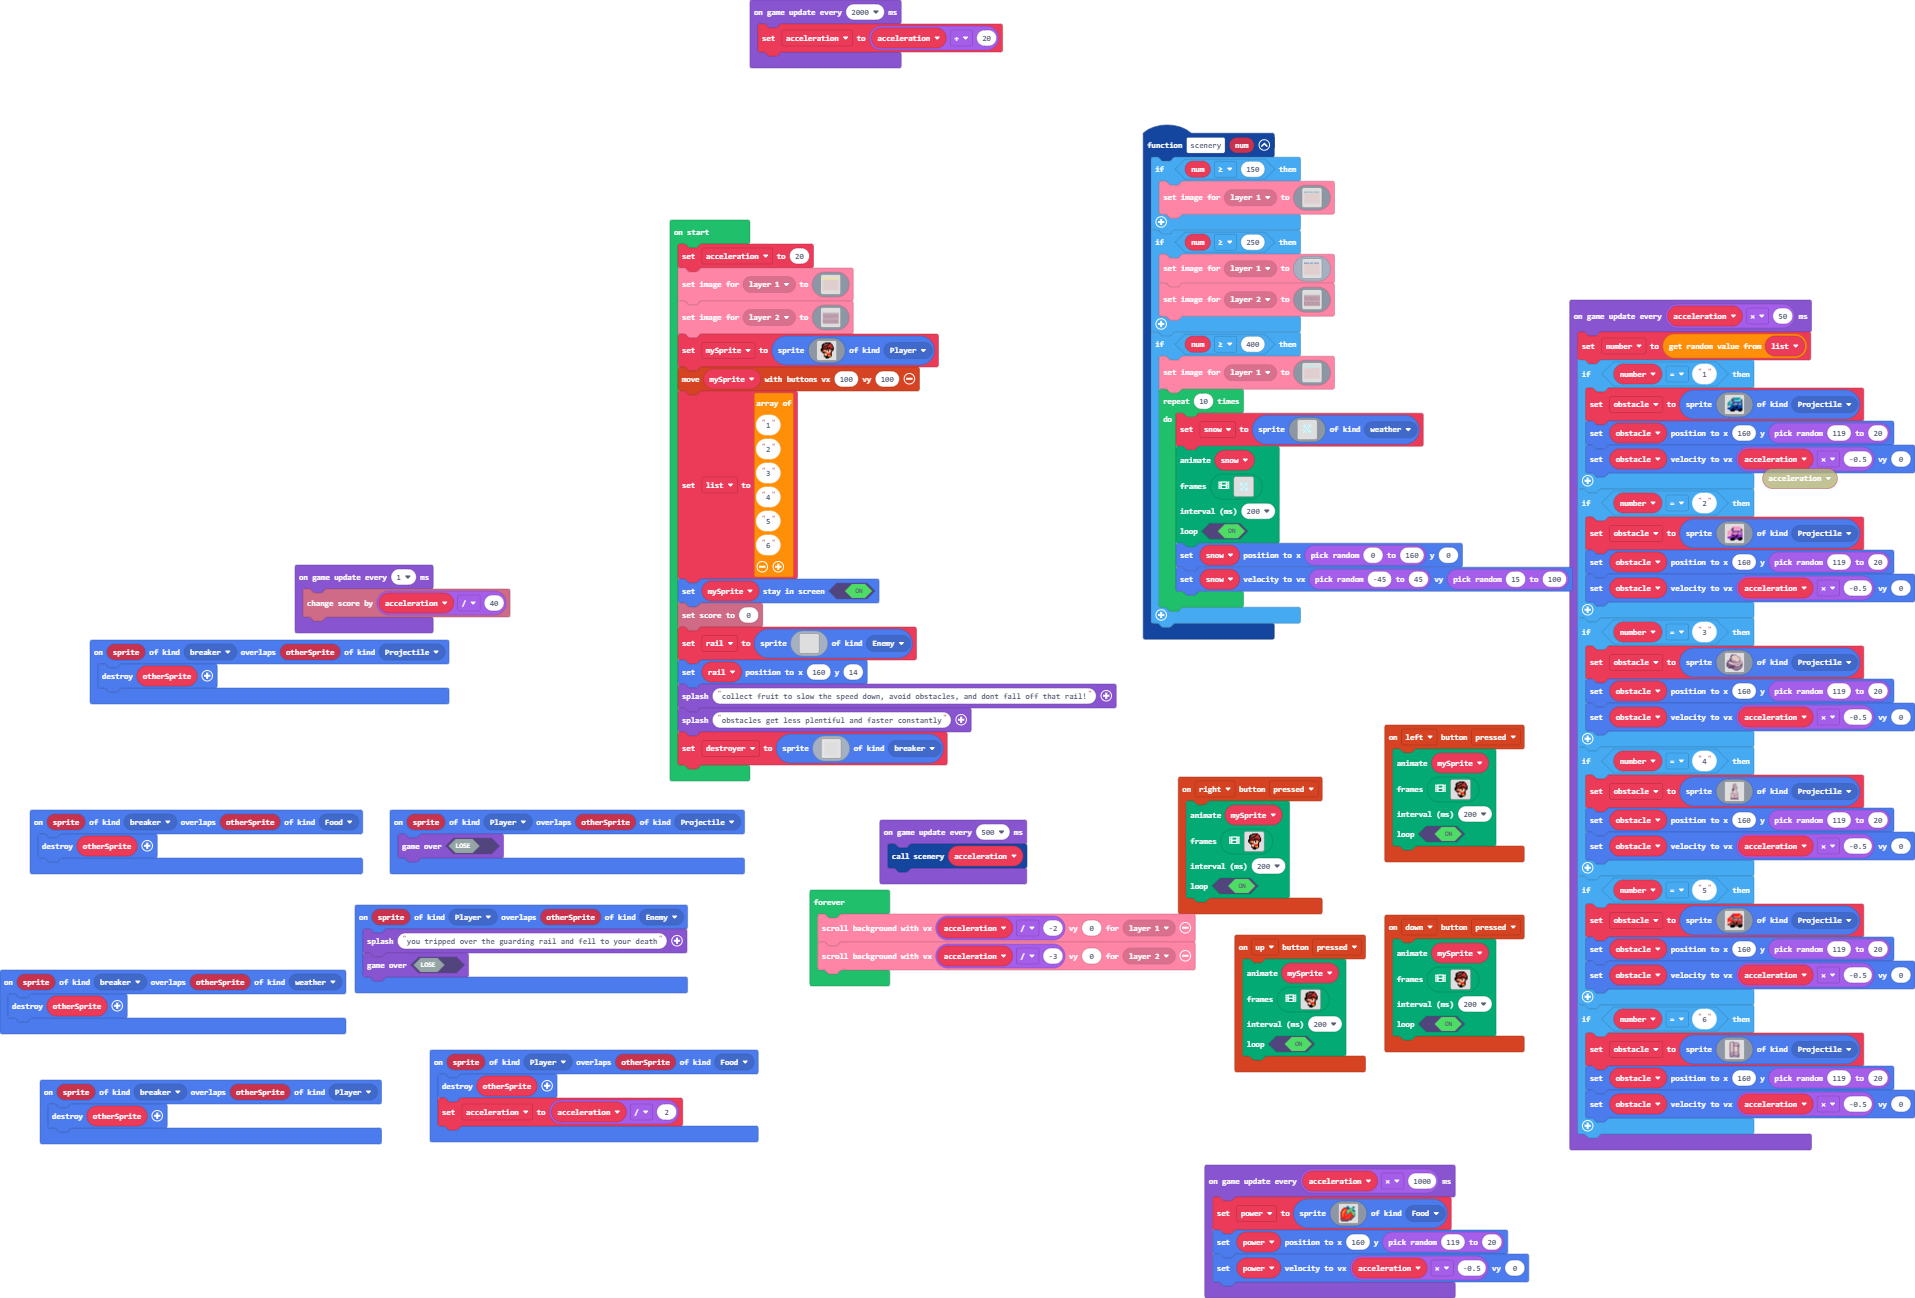
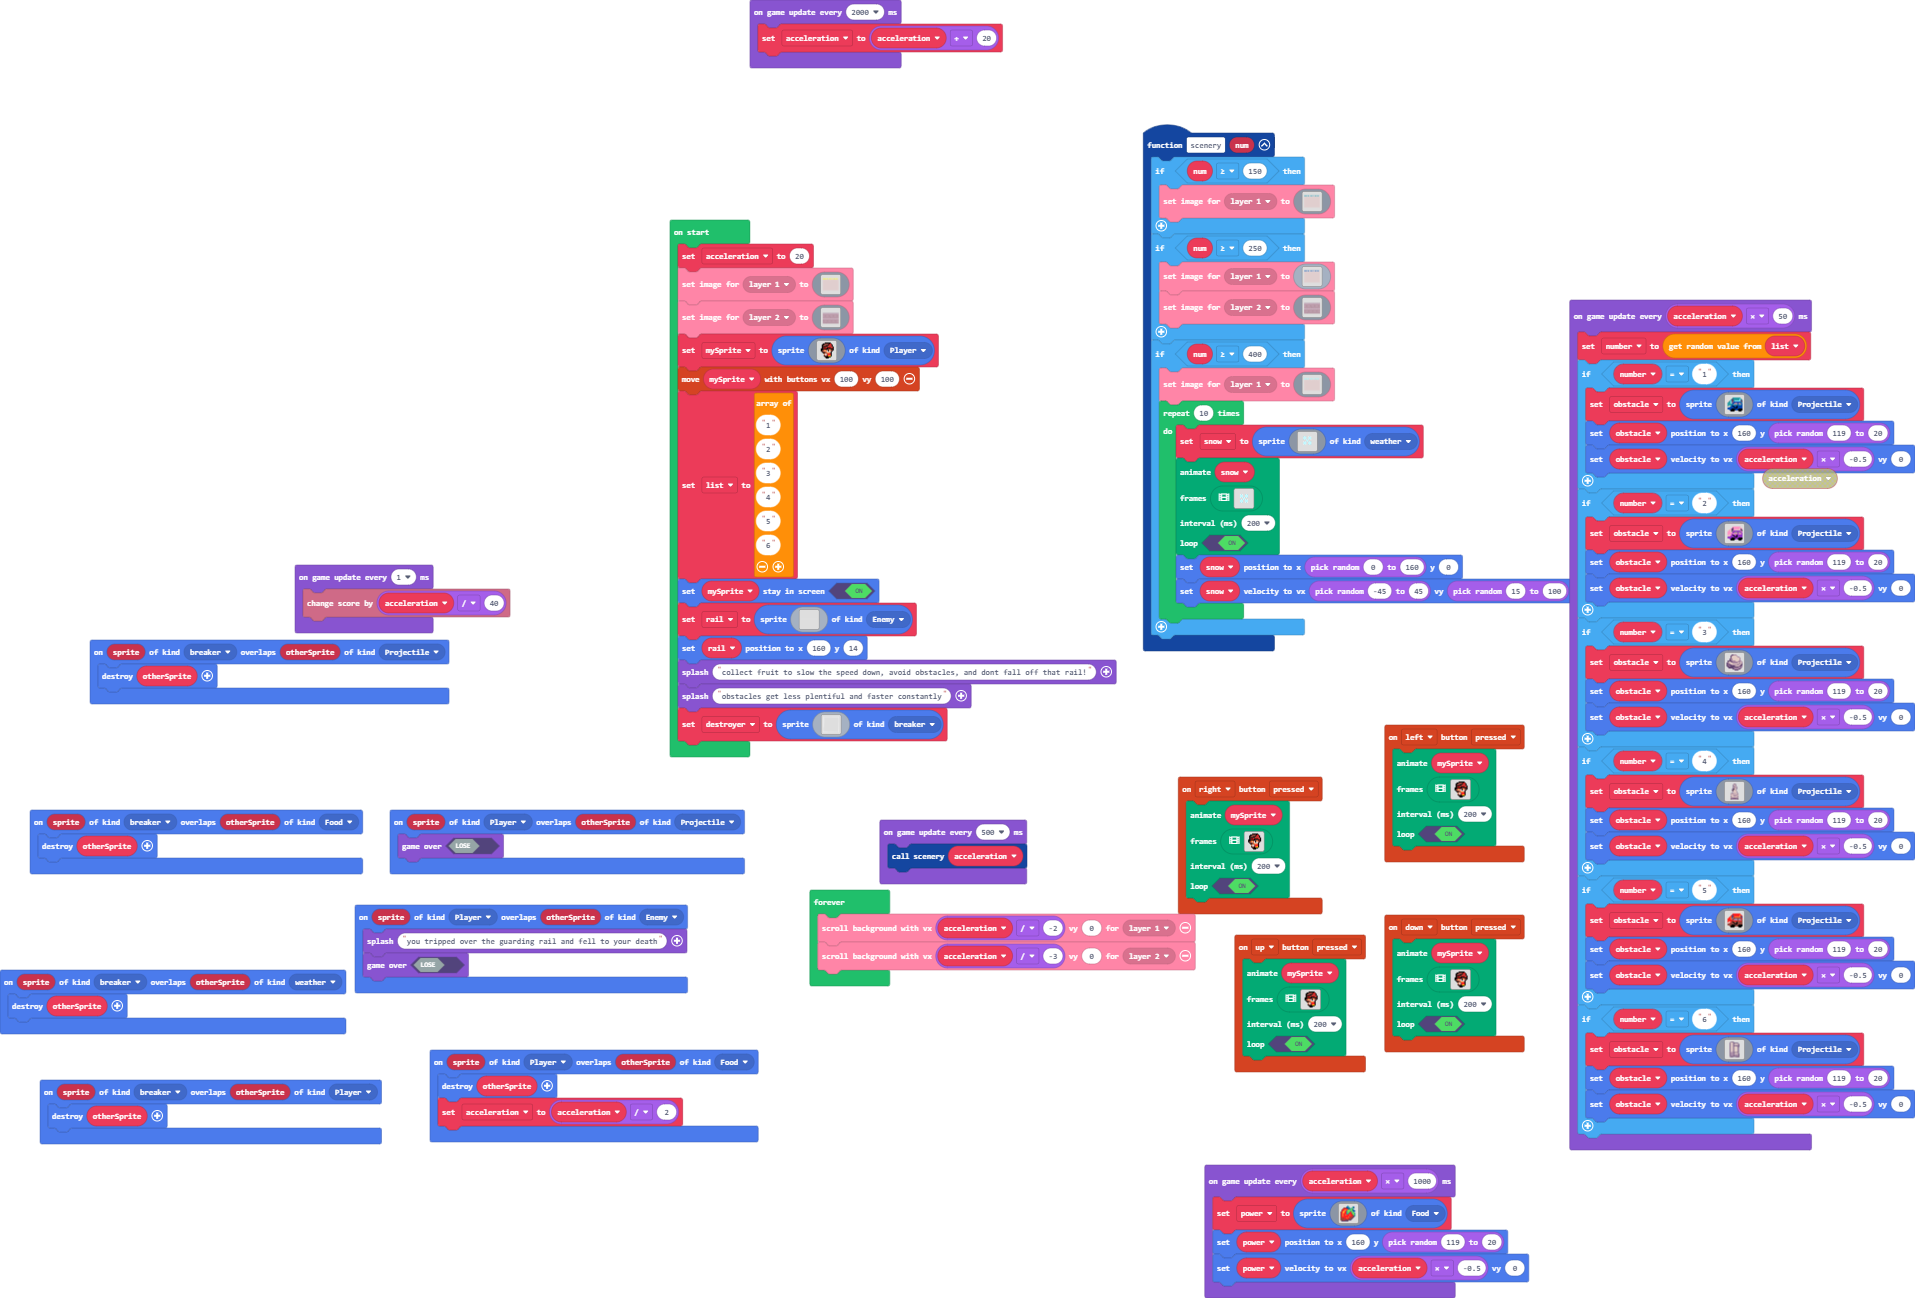
Update main.blocks, main.ts

Changed region(s): [[0.3389, 0.1233, 0.8319, 0.6163]]

diff --git a/main.ts b/main.ts
@@ -1115,7 +1115,6 @@ let list = [
 "6"
 ]
 mySprite.setStayInScreen(true)
-info.setScore(0)
 let rail = sprites.create(img`
     ....................................................................................................................................................................................................................................................................................................................................................................................................................................................................................................................
     ....................................................................................................................................................................................................................................................................................................................................................................................................................................................................................................................
